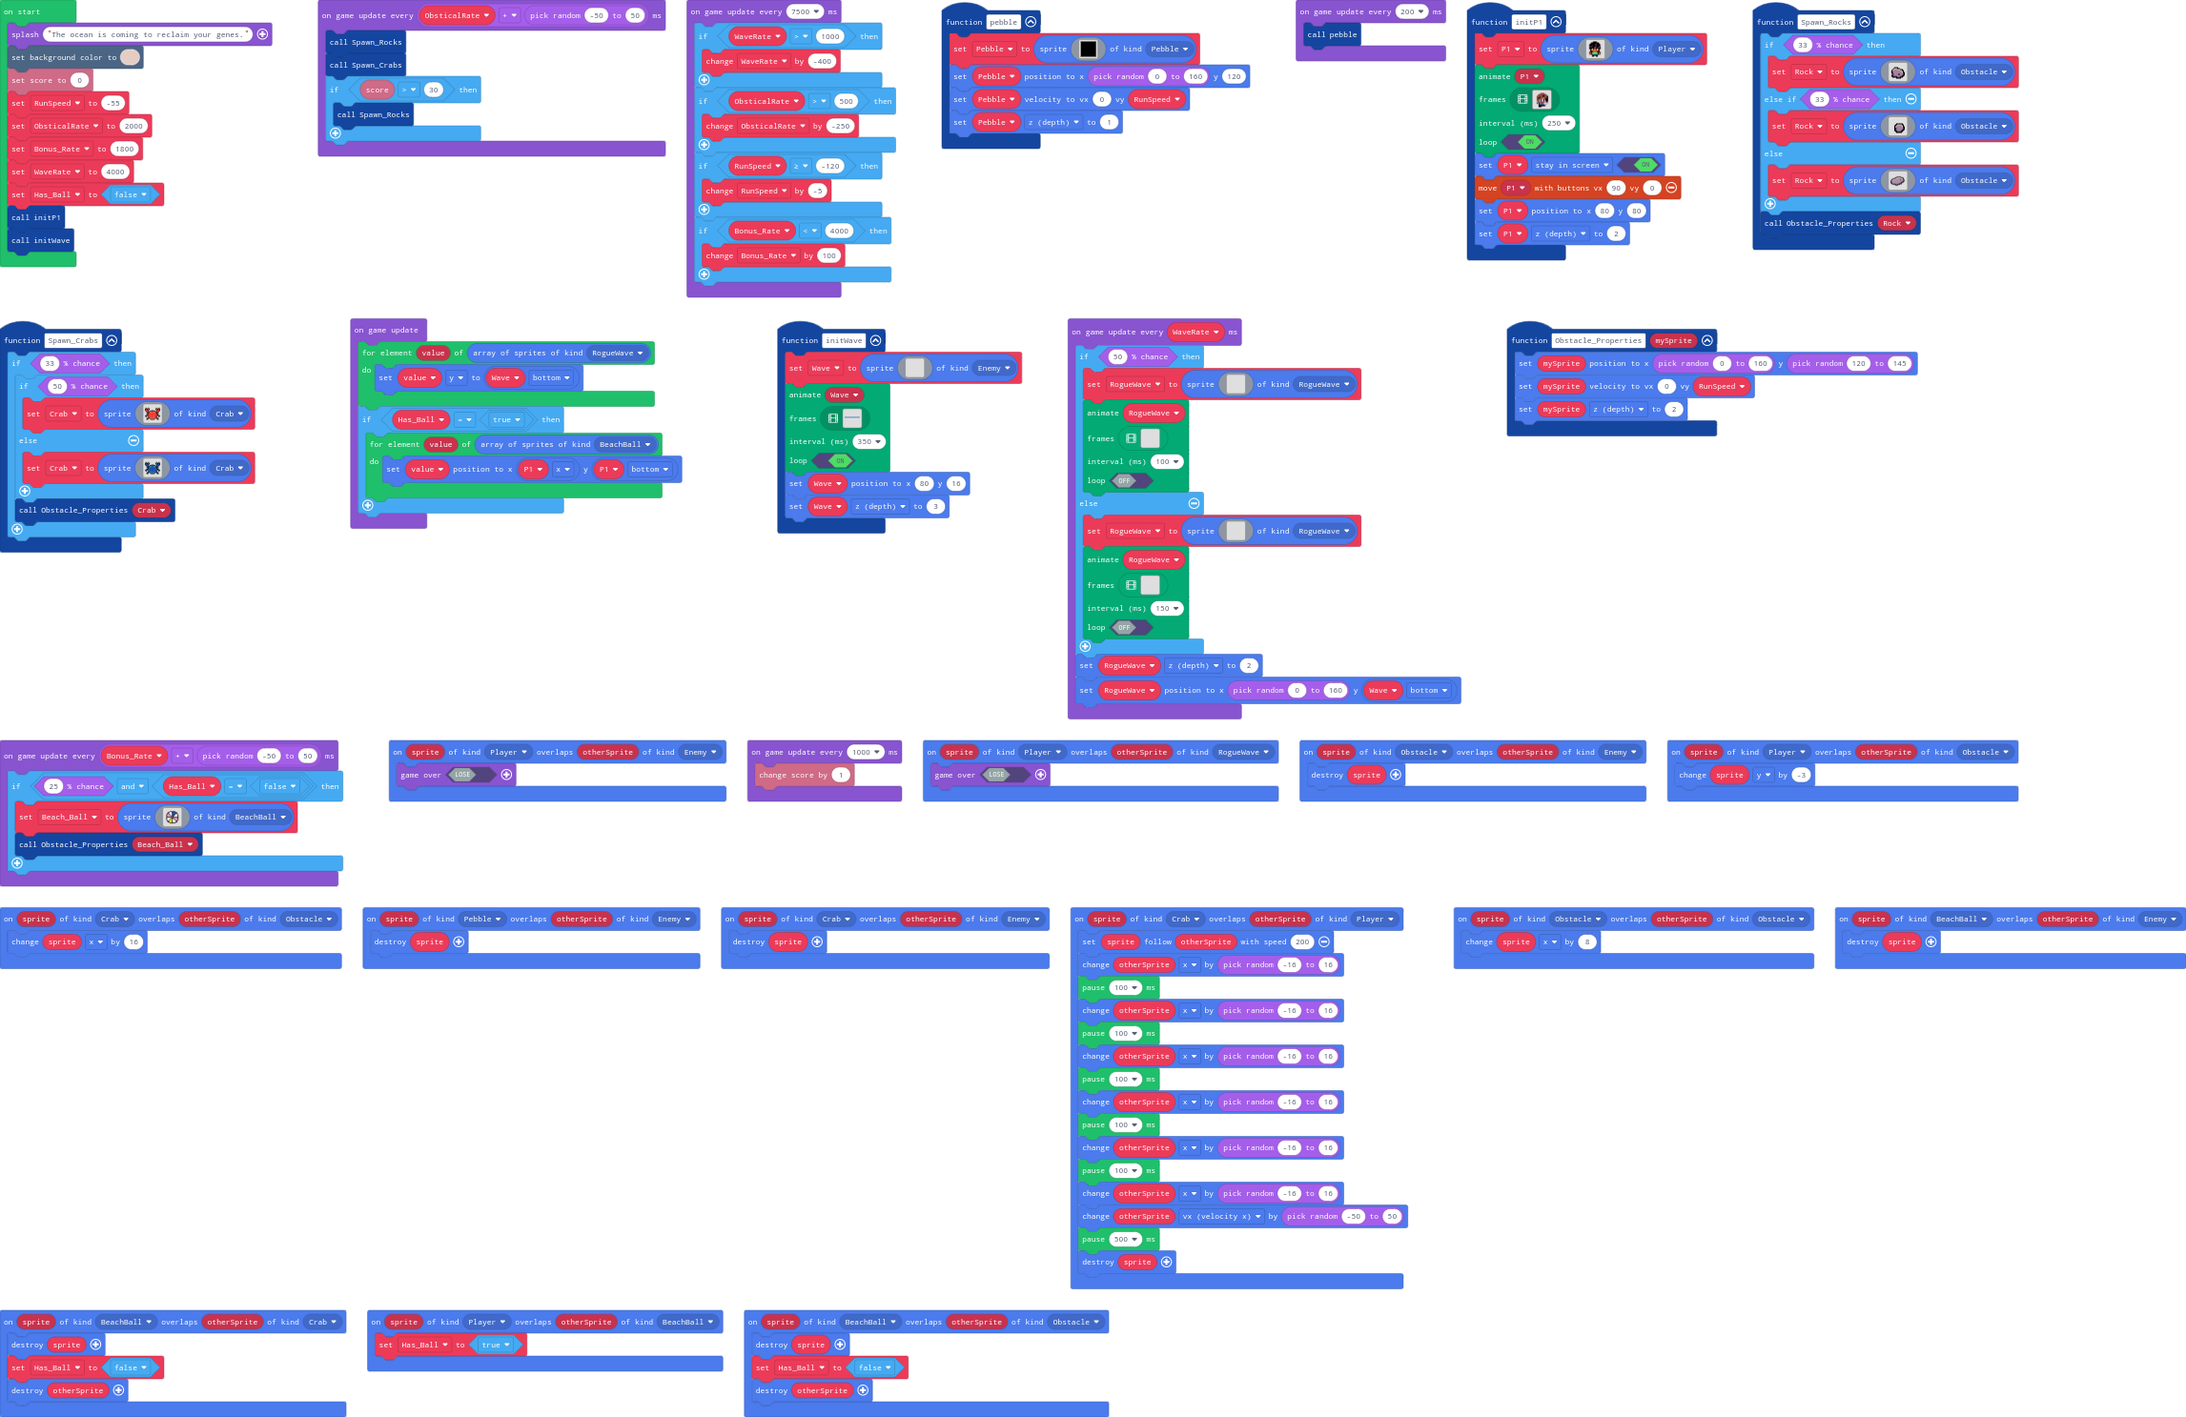
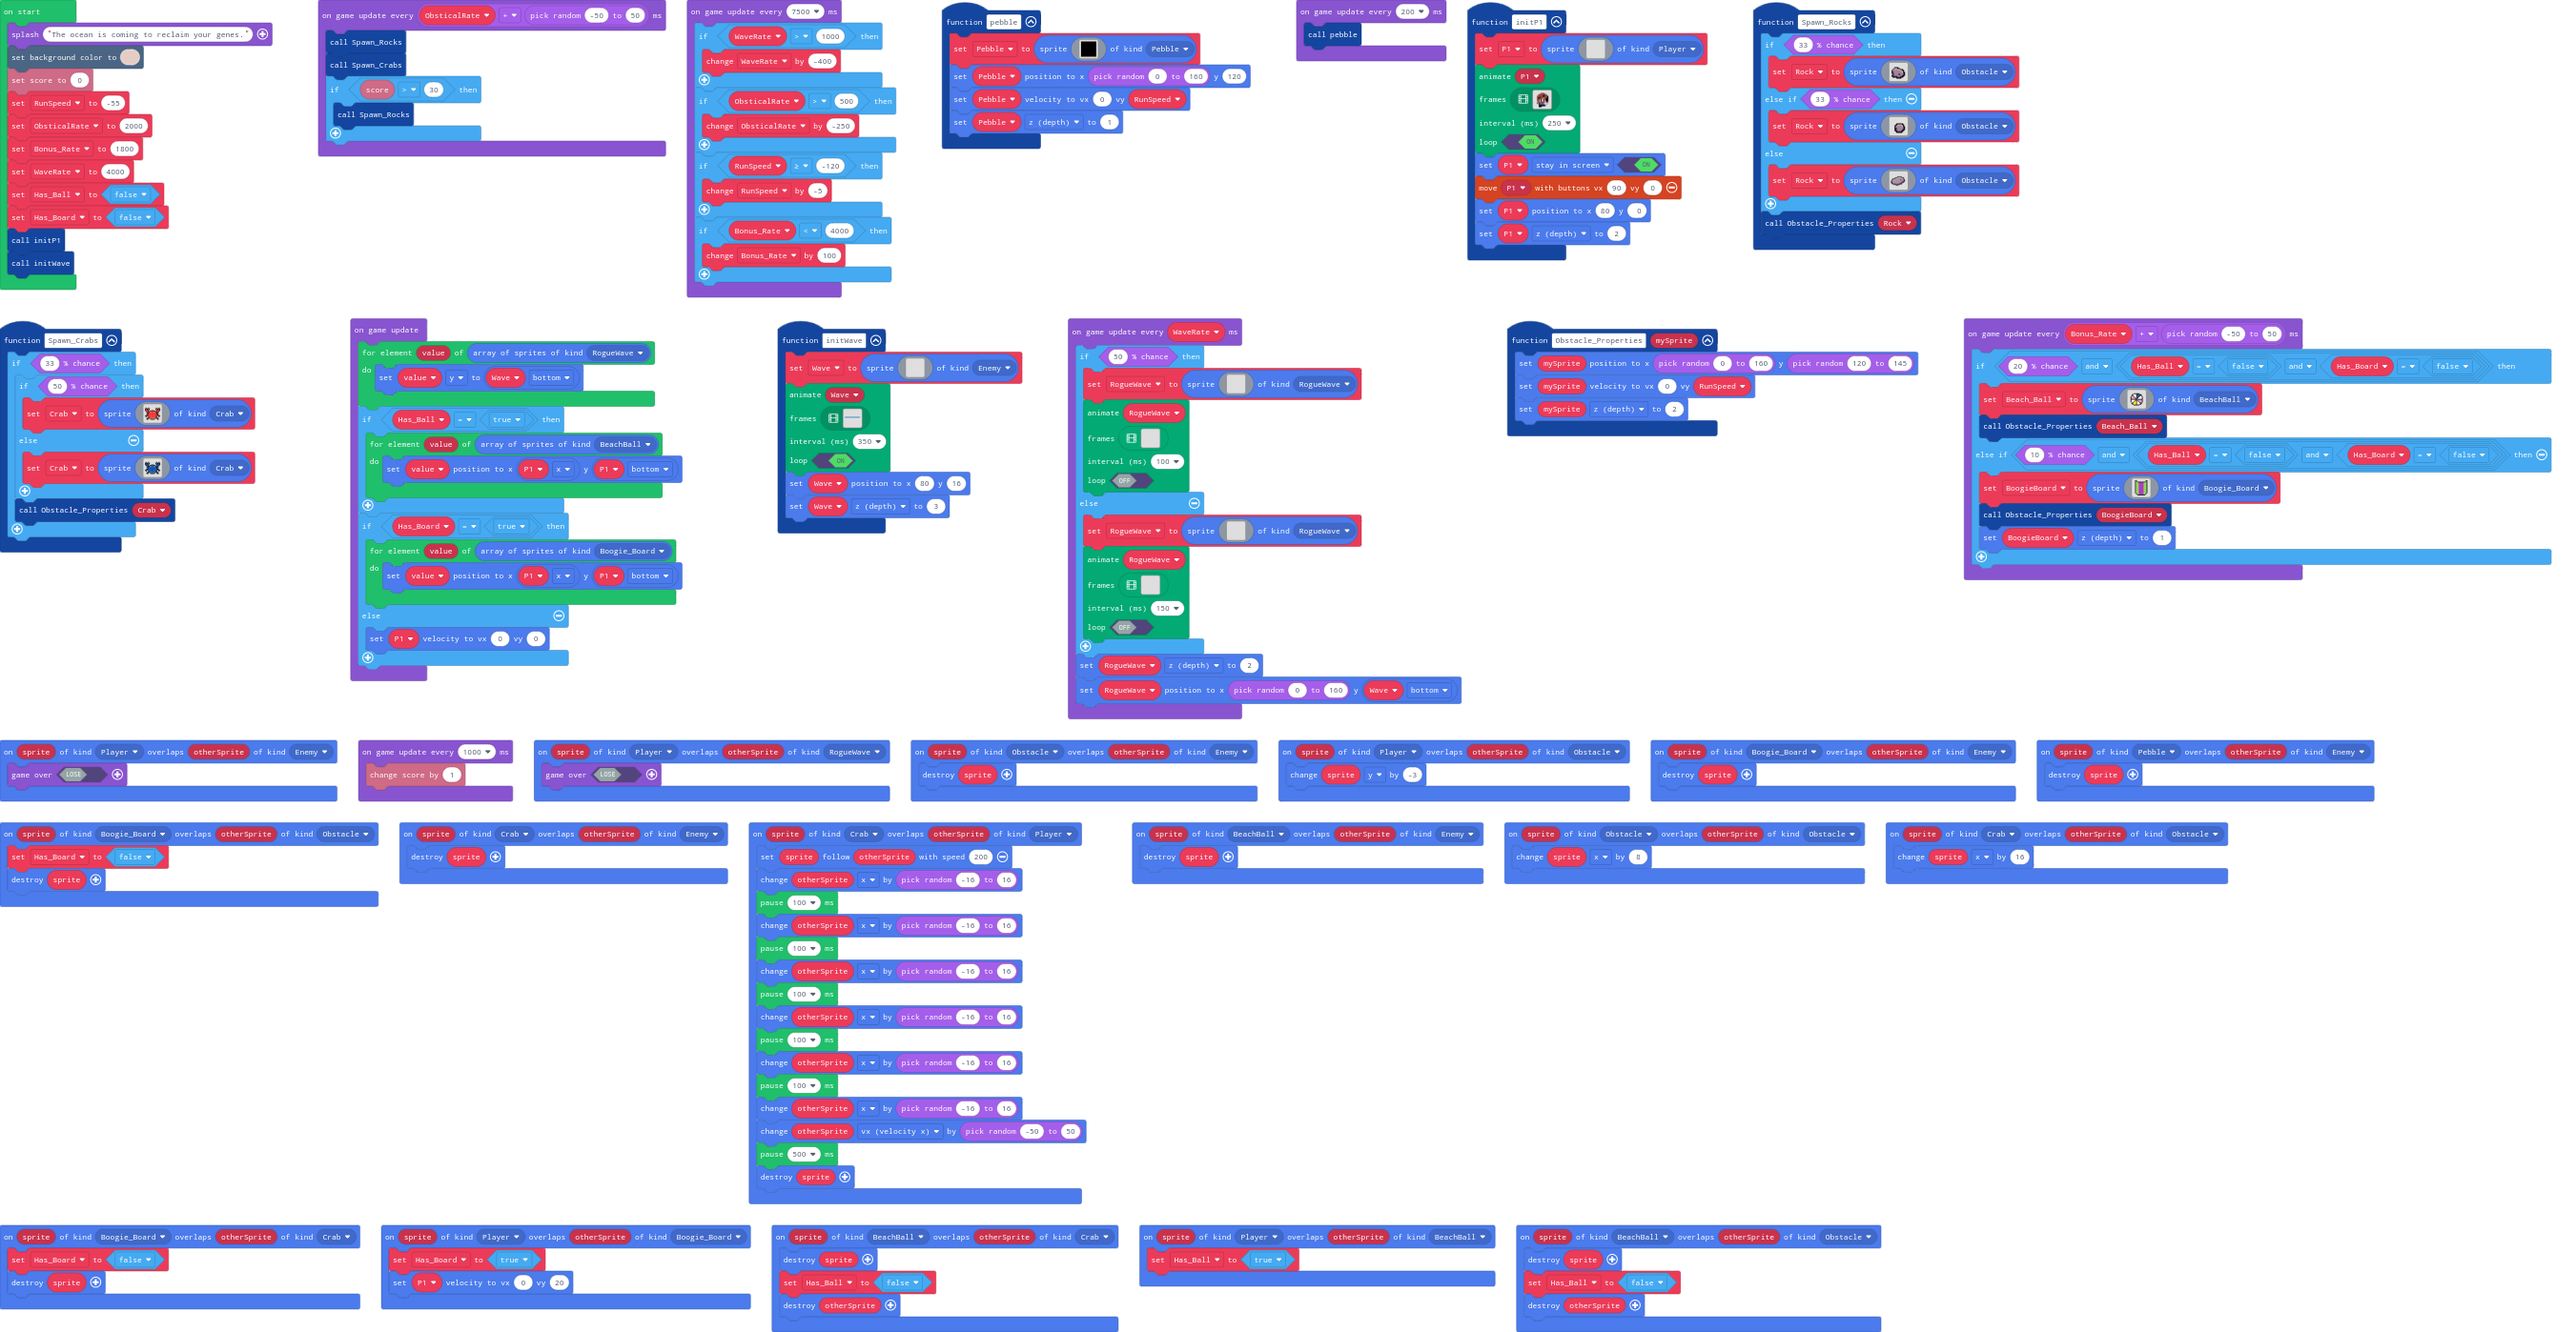
Update main.blocks, main.ts

diff --git a/main.ts b/main.ts
@@ -5,6 +5,7 @@ namespace SpriteKind {
     export const Pebble = SpriteKind.create()
     export const Crab = SpriteKind.create()
     export const BeachBall = SpriteKind.create()
+    export const Boogie_Board = SpriteKind.create()
 }
 function pebble () {
     Pebble = sprites.create(img`
@@ -75,6 +76,10 @@ function Spawn_Rocks () {
     }
     Obstacle_Properties(Rock)
 }
+sprites.onOverlap(SpriteKind.Boogie_Board, SpriteKind.Crab, function (sprite, otherSprite) {
+    Has_Board = false
+    sprite.destroy()
+})
 sprites.onOverlap(SpriteKind.Player, SpriteKind.Obstacle, function (sprite, otherSprite) {
     sprite.y += -3
 })
@@ -83,6 +88,9 @@ sprites.onOverlap(SpriteKind.Player, SpriteKind.RogueWave, function (sprite, oth
 })
 sprites.onOverlap(SpriteKind.Player, SpriteKind.BeachBall, function (sprite, otherSprite) {
     Has_Ball = true
+})
+sprites.onOverlap(SpriteKind.Boogie_Board, SpriteKind.Enemy, function (sprite, otherSprite) {
+    sprite.destroy()
 })
 sprites.onOverlap(SpriteKind.Obstacle, SpriteKind.Enemy, function (sprite, otherSprite) {
     sprite.destroy()
@@ -104,6 +112,10 @@ function Obstacle_Properties (mySprite: Sprite) {
     mySprite.z = 2
 }
 sprites.onOverlap(SpriteKind.BeachBall, SpriteKind.Enemy, function (sprite, otherSprite) {
+    sprite.destroy()
+})
+sprites.onOverlap(SpriteKind.Boogie_Board, SpriteKind.Obstacle, function (sprite, otherSprite) {
+    Has_Board = false
     sprite.destroy()
 })
 sprites.onOverlap(SpriteKind.Crab, SpriteKind.Enemy, function (sprite, otherSprite) {
@@ -287,22 +299,22 @@ function initWave () {
 }
 function initP1 () {
     P1 = sprites.create(img`
-        . . . . f f f f . . . . . 
-        . . f f f f f f f f . . . 
-        . f f f f f f c f f f . . 
-        f f f f f f c c f f f c . 
-        f f f c f f f f f f f c . 
-        c c c f f f e e f f c c . 
-        f f f f f e e f f c c f . 
-        f f f b f e e f b f f f . 
-        . f 4 1 f 4 4 f 1 4 f . . 
-        . f e 4 4 4 4 4 4 e f . . 
-        . f f f e e e e f f f . . 
-        f e f b 7 7 7 7 b f e f . 
-        e 4 f 7 7 7 7 7 7 f 4 e . 
-        e e f 6 6 6 6 6 6 f e e . 
-        . . . f f f f f f . . . . 
-        . . . f f . . f f . . . . 
+        . . . . . . . . . . . . . 
+        . . . . . . . . . . . . . 
+        . . . . . . . . . . . . . 
+        . . . . . . . . . . . . . 
+        . . . . . . . . . . . . . 
+        . . . . . . . . . . . . . 
+        . . . . . . . . . . . . . 
+        . . . . . . . . . . . . . 
+        . . . . . . . . . . . . . 
+        . . . . . . . . . . . . . 
+        . . . . . . . . . . . . . 
+        . . . . . . . . . . . . . 
+        . . . . . . . . . . . . . 
+        . . . . . . . . . . . . . 
+        . . . . . . . . . . . . . 
+        . . . . . . . . . . . . . 
         `, SpriteKind.Player)
     animation.runImageAnimation(
     P1,
@@ -349,6 +361,10 @@ function initP1 () {
     P1.setPosition(80, 80)
     P1.z = 2
 }
+sprites.onOverlap(SpriteKind.Player, SpriteKind.Boogie_Board, function (sprite, otherSprite) {
+    Has_Board = true
+    P1.setVelocity(0, 20)
+})
 sprites.onOverlap(SpriteKind.BeachBall, SpriteKind.Crab, function (sprite, otherSprite) {
     sprite.destroy()
     Has_Ball = false
@@ -421,6 +437,7 @@ function Spawn_Crabs () {
 sprites.onOverlap(SpriteKind.Player, SpriteKind.Enemy, function (sprite, otherSprite) {
     game.over(false)
 })
+let BoogieBoard: Sprite = null
 let Beach_Ball: Sprite = null
 let RogueWave: Sprite = null
 let Crab: Sprite = null
@@ -428,6 +445,7 @@ let P1: Sprite = null
 let Wave: Sprite = null
 let Rock: Sprite = null
 let Pebble: Sprite = null
+let Has_Board = false
 let Has_Ball = false
 let RunSpeed = 0
 game.splash("The ocean is coming to reclaim your genes.")
@@ -438,6 +456,7 @@ let ObsticalRate = 2000
 let Bonus_Rate = 1800
 let WaveRate = 4000
 Has_Ball = false
+Has_Board = false
 initP1()
 initWave()
 game.onUpdate(function () {
@@ -448,6 +467,13 @@ game.onUpdate(function () {
         for (let value of sprites.allOfKind(SpriteKind.BeachBall)) {
             value.setPosition(P1.x, P1.bottom)
         }
+    }
+    if (Has_Board == true) {
+        for (let value of sprites.allOfKind(SpriteKind.Boogie_Board)) {
+            value.setPosition(P1.x, P1.bottom)
+        }
+    } else {
+        P1.setVelocity(0, 0)
     }
 })
 game.onUpdateInterval(ObsticalRate + randint(-50, 50), function () {
@@ -2329,7 +2355,7 @@ game.onUpdateInterval(200, function () {
     pebble()
 })
 game.onUpdateInterval(Bonus_Rate + randint(-50, 50), function () {
-    if (Math.percentChance(25) && Has_Ball == false) {
+    if (Math.percentChance(20) && (Has_Ball == false && Has_Board == false)) {
         Beach_Ball = sprites.create(img`
             ...................
             ......fffffff......
@@ -2349,5 +2375,30 @@ game.onUpdateInterval(Bonus_Rate + randint(-50, 50), function () {
             ......fffffff......
             `, SpriteKind.BeachBall)
         Obstacle_Properties(Beach_Ball)
+    } else if (Math.percentChance(10) && (Has_Ball == false && Has_Board == false)) {
+        BoogieBoard = sprites.create(img`
+            ..ff............ff.
+            ..f7f..........f7f.
+            ..f77ffffffffff77f.
+            ..f7774aaaaaa4777f.
+            ..f7774aaaaaa4777f.
+            ..f7774aaaaaa4777f.
+            ..f7774aaaaaa4777f.
+            ..f7774aaaaaa4777f.
+            ..f7774aaaaaa4777f.
+            ..f7774aaaaaa4777f.
+            ..f7774aaaaaa4777f.
+            ..f7774aaaaaa4777f.
+            ..f7774aaaaaa4777f.
+            ..f7774aaaaaa4777f.
+            ..f7774aaaaaa4777f.
+            ..f7774aaaaaa4777f.
+            ..f7774aaaaaa4777f.
+            ...f774aaaaaa477f..
+            ....f74aaaaaa47f...
+            .....ffffffffff....
+            `, SpriteKind.Boogie_Board)
+        Obstacle_Properties(BoogieBoard)
+        BoogieBoard.z = 1
     }
 })
